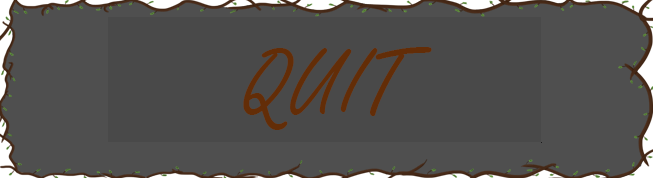
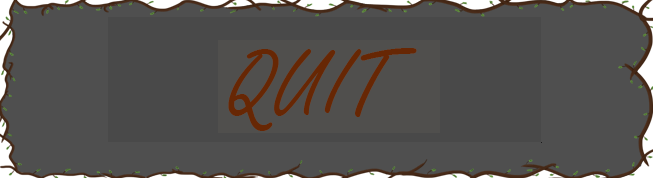
NewMainMenu

Changed region(s): [[0.3369, 0.2528, 0.6738, 0.7303]]

diff --git a/StortSpelprojekt/Project/Win.cpp b/StortSpelprojekt/Project/Win.cpp
@@ -1,0 +1,95 @@
+//#include "Win.h"
+//
+//void hoveringWin()
+//{
+//	Print("Hovering");
+//}
+//void hovering2Win()
+//{
+//	Print("Quit");
+//}
+//
+//Win::Win(UINT clientWidth, UINT clientHeight, HWND window)
+//	:modelRenderer(DEFERRED, true),
+//	particleRenderer(DEFERRED)
+//{
+//	currentCanvas = new Canvas();
+//	currentCanvas->AddButton({ (float)clientWidth / 2.f, (float)clientHeight / 2.f }, "Name", 400, 150, UI::COLOR::GRAY, [this] { MainMenu(); }, hoveringWin);
+//	currentCanvas->AddButton({ (float)clientWidth / 2.f, (float)clientHeight / 4.f }, "Quit", 400, 150, UI::COLOR::GRAY, [this] { QuitGame(); }, hovering2Win);
+//
+//	currentCanvas->AddImage({ (float)clientWidth / 2.f, (float)clientHeight / 2.f }, "MainMenuButton", "MainMenuButton.png", 1.f, true);
+//	currentCanvas->AddImage({ (float)clientWidth / 2.f, (float)clientHeight / 4.f }, "Quit", "Quit.png", 1.f, true);
+//
+//	(void)Run();
+//}
+//
+//Win::~Win()
+//{
+//	delete currentCanvas;
+//}
+//
+//void Win::Initialize()
+//{
+//	//LOAD SCENE
+//	FBXLoader levelLoader("Models");
+//
+//	GameLoader gameLoader;
+//	gameLoader.Load("Default", scene.GetDrawables());
+//
+//	for (auto& [name, drawable] : scene.GetDrawables())
+//	{
+//		auto model = std::dynamic_pointer_cast<Model>(drawable);
+//		if (model)
+//		{
+//			modelRenderer.Bind(model);
+//			shadowRenderer.Bind(model);
+//		}
+//
+//		auto particleSystem = std::dynamic_pointer_cast<ParticleSystem>(drawable);
+//		if (particleSystem)
+//		{
+//			//SAME BUT PS->
+//		}
+//	}
+//
+//}
+//
+//void Win::MainMenu()
+//{
+//	backToMenu = true;
+//}
+//
+//void Win::QuitGame()
+//{
+//	quit = true;
+//}
+//
+//void Win::Render()
+//{
+//	Graphics::Inst().BeginFrame();
+//	currentCanvas->Render();
+//	Graphics::Inst().EndFrame();
+//}
+//
+//APPSTATE Win::Run()
+//{
+//	/*scene.Update();*/
+//
+//	currentCanvas->Update();
+//	Render();
+//
+//
+//	if (Event::KeyIsPressed('M'))
+//		gameStateStatus = APPSTATE::MAIN_MENU;
+//
+//	if (quit)
+//		return APPSTATE::EXIT;
+//
+//	if (backToMenu)
+//		return APPSTATE::MAIN_MENU;
+//
+//	if (Event::KeyIsPressed(VK_ESCAPE))
+//		gameStateStatus = APPSTATE::EXIT;
+//
+//	return gameStateStatus;
+//}

diff --git a/StortSpelprojekt/Project/GameOver.cpp b/StortSpelprojekt/Project/GameOver.cpp
@@ -13,15 +13,19 @@ GameOver::GameOver(UINT clientWidth, UINT clientHeight, HWND window)
 	:modelRenderer(DEFERRED, true),
 	particleRenderer(DEFERRED)
 {
-	//{ (float)clientWidth / 2.f, (float)clientHeight / 2.f }, "C", 250, 250, UI::COLOR::GRAY, [this] { Test(); }, TestFuncOptions
-	//ui = std::make_unique<UI>(window);
 	currentCanvas = new Canvas();
-	//currentCanvas->AddImage({ (float)clientWidth /2.f, (float)clientHeight / 2.f }, "GameOver", "GameOver.png", 2.f, true);
-	currentCanvas->AddImage({ (float)clientWidth / 2.f, (float)clientHeight / 2.f }, "MainMenuButton", "MainMenuButton.png", 1.f, true);
-	currentCanvas->AddImage({ (float)clientWidth / 2.f, (float)clientHeight / 4.f }, "Quit", "Quit.png", 1.f, true);
+	//QUIT
+	currentCanvas->AddButton({ (float)clientWidth / 2.f, (float)clientHeight / 1.4f }, "Quit", 400, 150, UI::COLOR::GRAY, [this] { QuitGame(); }, hovering2);
+	currentCanvas->AddImage({ (float)clientWidth / 2.f, (float)clientHeight / 1.4f }, "Quit", "Quit.png", 1.f, true);
 
+	//MAINMENU
 	currentCanvas->AddButton({ (float)clientWidth / 2.f, (float)clientHeight / 2.f }, "Name", 400, 150, UI::COLOR::GRAY, [this] { MainMenu(); }, hovering);
-	currentCanvas->AddButton({ (float)clientWidth / 2.f, (float)clientHeight / 4.f }, "Quit", 400, 150, UI::COLOR::GRAY, [this] { QuitGame(); }, hovering2);
+	currentCanvas->AddImage({ (float)clientWidth / 2.f, (float)clientHeight / 2.f }, "MainMenuButton", "MainMenuButton.png", 1.f, true);
+
+	//GAMEOVERTEXT
+	currentCanvas->AddImage({ (float)clientWidth / 2.f, (float)clientHeight / 5.5f }, "GameOverText", "GameOverText.png", 2.f, true);
+
+
 
 	(void)Run();
 }

diff --git a/StortSpelprojekt/Project/Win.h b/StortSpelprojekt/Project/Win.h
@@ -1,0 +1,40 @@
+//#pragma once
+//#include "UI.h"
+//#include "GameState.h"
+//#include "ParticleRenderer.h"
+//#include "ModelRenderer.h"
+//#include "Canvas.h"
+//#include "FBXLoader.h"
+//#include "GameLoader.h"
+//#include "ParticleRenderer.h"
+//#include "ShadowRenderer.h"
+//
+//class Win : public ApplicationState
+//{
+//private:
+//	Canvas* currentCanvas;
+//	std::map<std::string, Canvas*> canvases;
+//
+//	ParticleRenderer particleRenderer;
+//	ModelRenderer modelRenderer;
+//	ShadowRenderer shadowRenderer;
+//	APPSTATE gameStateStatus = APPSTATE::NO_CHANGE;
+//	bool goToMenu = false;
+//
+//public:
+//
+//	Win() = default;
+//	Win(UINT clientWidth, UINT clientHeight, HWND window);
+//	~Win();
+//
+//	bool quit;
+//	bool backToMenu;
+//
+//	void Render();
+//	void Initialize();
+//	void MainMenu();
+//	void QuitGame();
+//
+//	virtual APPSTATE Run() override;
+//
+//};

diff --git a/StortSpelprojekt/Project/Game.cpp b/StortSpelprojekt/Project/Game.cpp
@@ -562,6 +562,9 @@ APPSTATE Game::Run()
 	if (Event::KeyIsPressed('M'))
 		return APPSTATE::MAIN_MENU;
 
+	if (Event::KeyIsPressed('X'))
+		return APPSTATE::GAMEOVER;
+
 	if (player->GetGameOver() == true)
 	{
 		std::cout << "DEAD!!!" << std::endl;
